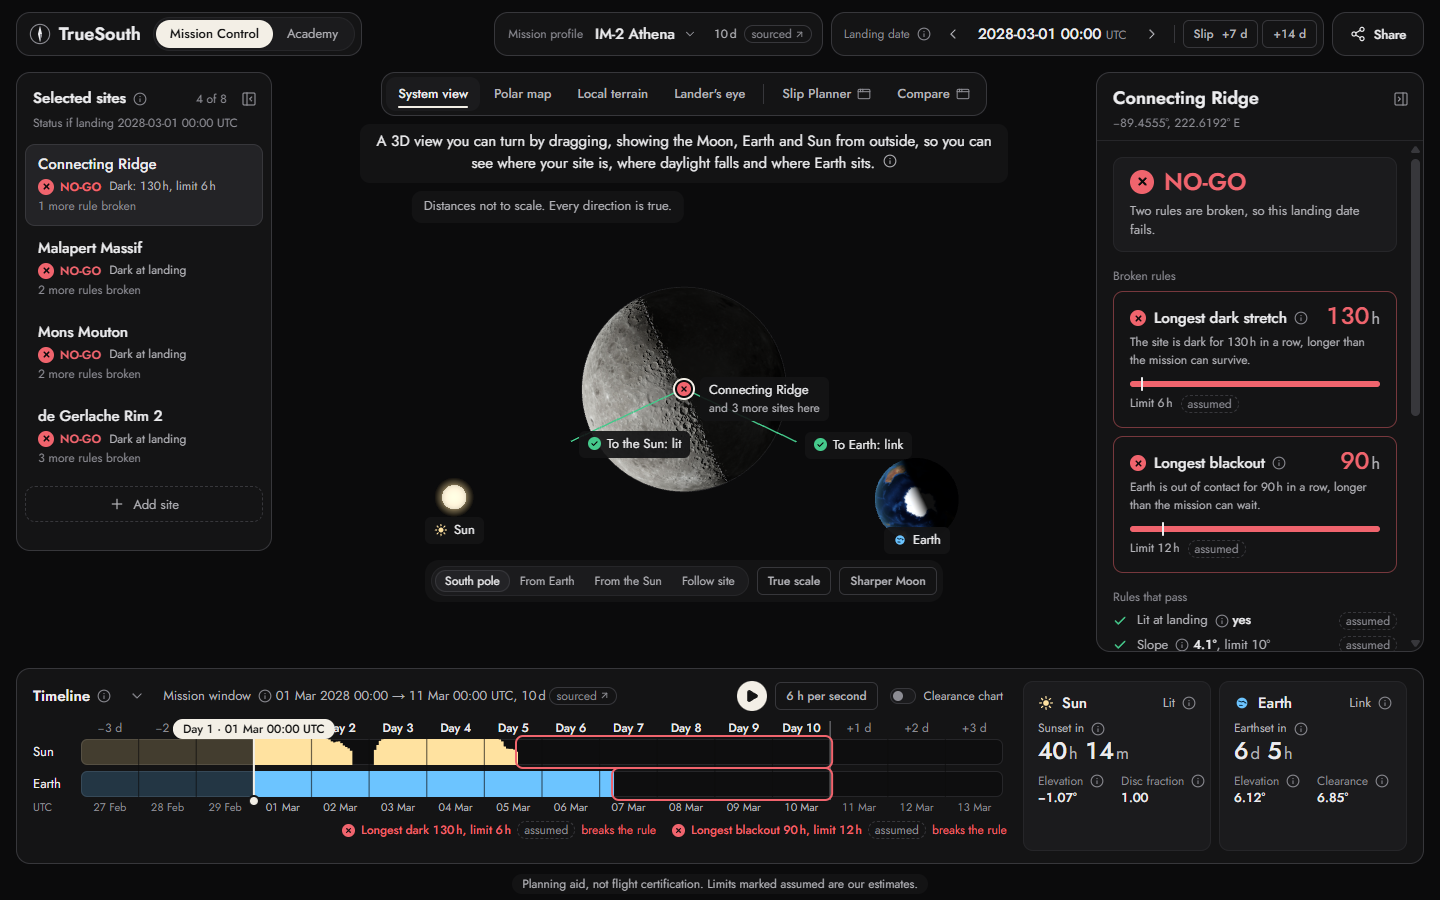
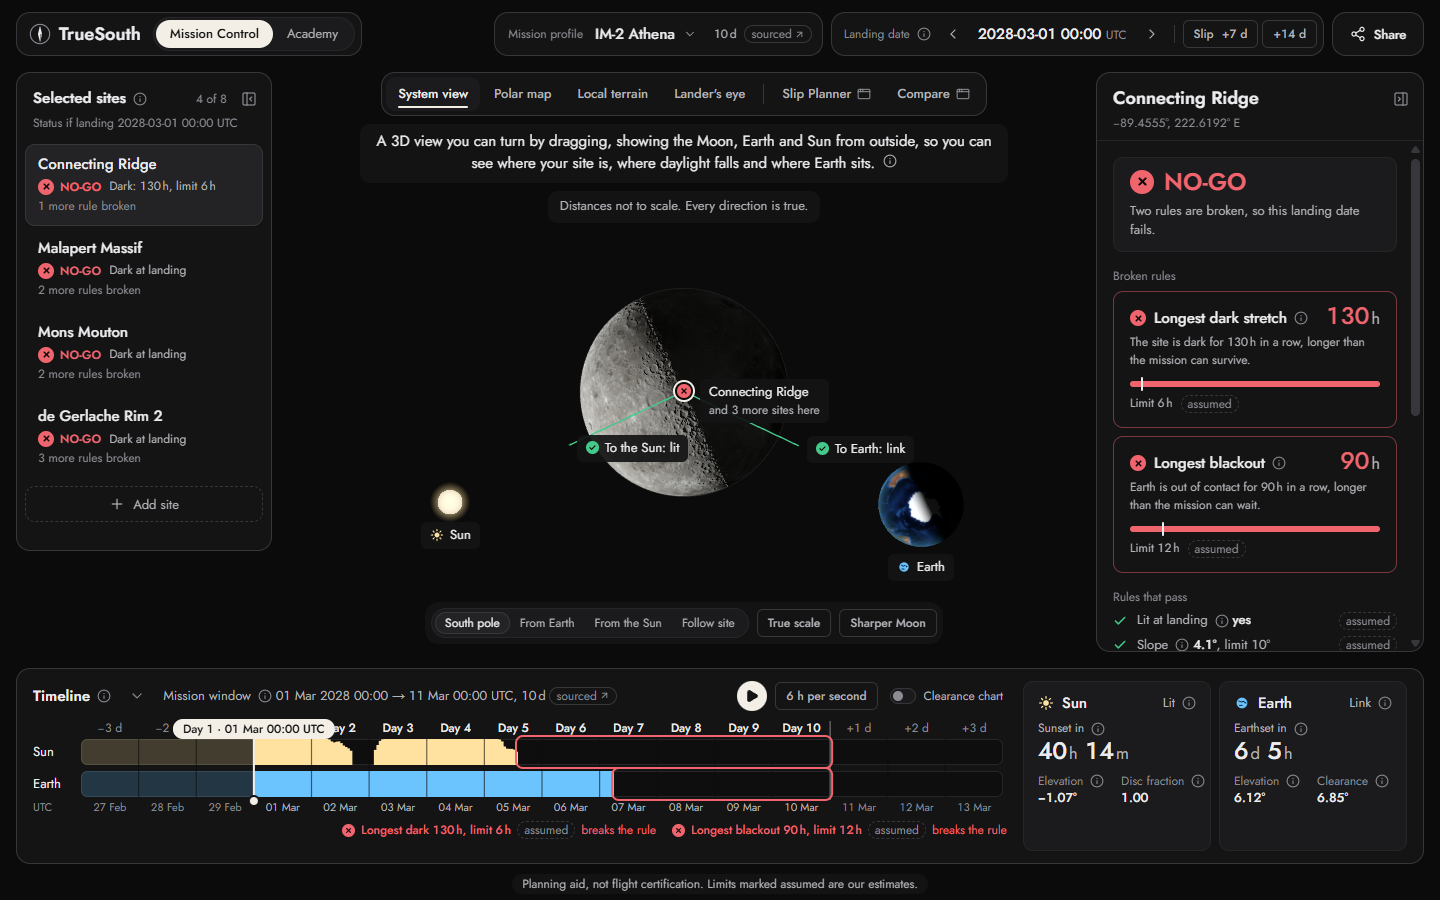
T1 and T2: plate widths, lander palette from theme tokens, DEVLOG entry

Changed region(s): [[0.2812, 0.3422, 0.6562, 0.7156], [0.2812, 0.2178, 0.5625, 0.2489], [0.2812, 0.5289, 0.3438, 0.5911]]

diff --git a/web/src/features/three/scene/overlay.tsx b/web/src/features/three/scene/overlay.tsx
@@ -263,8 +263,10 @@ export function Overlay(props: OverlayProps) {
     };
   }, [bus]);
 
-  const fit = { maxWidth: Math.max(0, freeSpace.width - 16) };
-  const fsStyleTop = { left: freeSpace.x + freeSpace.width / 2, top: freeSpace.y + 8, ...fit };
+  // Plates and controls stay inside the free space; the anchor's limit passes to its child.
+  const room = Math.max(0, freeSpace.width - 16);
+  const fit = { maxWidth: Math.min(room, 760) };
+  const fsStyleTop = { left: freeSpace.x + freeSpace.width / 2, top: freeSpace.y + 8, maxWidth: Math.min(room, 640) };
   const fsStyleFoot = { left: freeSpace.x + freeSpace.width / 2, top: freeSpace.y + freeSpace.height - 8, ...fit };
   const small = tooSmall(freeSpace) || freeSpace.windowOpen;
   const sphere = Boolean(focusedSite?.sphere);

diff --git a/web/src/features/three/scene/scene.css b/web/src/features/three/scene/scene.css
@@ -124,6 +124,10 @@
     transform: translateX(-50%);
   }
 
+  .scene-anchor > * {
+    max-width: inherit;
+  }
+
   .scene-anchor-foot {
     transform: translate(-50%, -100%);
   }
@@ -135,7 +139,6 @@
     justify-content: center;
     gap: var(--s2) var(--s3);
     width: max-content;
-    max-width: min(640px, 100%);
     margin: 0;
     padding: 6px 12px 7px;
     border-radius: var(--r-md);
@@ -162,7 +165,6 @@
     align-items: center;
     gap: var(--s2);
     width: max-content;
-    max-width: min(760px, calc(100vw - 24px));
     padding: 6px;
     overflow-x: auto;
     border-radius: var(--r-lg);

diff --git a/DEVLOG.md b/DEVLOG.md
@@ -599,6 +599,50 @@ Every one of the 65 proposed keys has a definition, source arrays, availability,
 
 ## 3D and Map
 
+#### 2026-11-13 · T1, T2 · The 3D scene behind Mission Control
+- **Who:** Claude Code agent, for the orchestrator
+- **AI use:** Claude Code, claude-opus-5-5, with the impeccable design skill (question
+  round skipped, as briefed) — wrote the scene in `web/src/features/three/scene/` (the
+  Moon, polar cap, Earth and Sun shaders adapted from the approved prototype; the camera
+  rig, flights and controls; the ground built from the patch and apron; the pins, plates
+  and controls; the Pip lander built in code), the placement helpers in
+  `web/src/lib/geo/placement.ts`, vitest tests for both, and the still picture (a render of
+  the scene's own NASA textures; no AI-generated imagery) — checked by the agent with
+  typecheck, the vitest suite, the build, impeccable's detector (no findings) and by eye
+  and by the numbers in a browser with WebGL (NVIDIA RTX 2060, ANGLE D3D11) on the real
+  data and the fixtures at 1440 × 900, 1024 × 768 and 390 × 844; a human has not reviewed
+  it yet
+- **State:** built, not verified
+- **Changed:** `web/src/features/three/scene/` (new), `web/src/lib/geo/placement.ts` and
+  its test (new), `web/src/lib/geo/index.ts`, `web/src/app/scene.ts` (adds
+  `SceneArrival`, the optional `onArrive` and `STILL_PICTURE_URL`), one line in
+  `web/src/app/mission-screen.tsx`, the still picture in `web/src/app/mission/scene-slot.tsx`,
+  `web/public/still/system-view.webp` (new), `docs/design/c2/built-scene-*.png`, this entry
+- **Notes:**
+  - By the numbers at Connecting Ridge (hours 18,960, 18,997 and 19,091): the Sun's
+    elevation from the scene's sub-solar direction agrees with the series' `sun_el` within
+    0.005°. The Earth sight-line and the Earth drawn in Lander's eye use the series'
+    `earth_az` and `earth_el`, so they agree exactly. The System view's Earth sits along the
+    sub-Earth point as science.md §14 says; seen from the site it differs from `earth_el`
+    by 0.25° to 0.27°, which is Earth's parallax between the Moon's centre and its surface.
+  - Shackleton's 20.9 km rim drawn at its IAU position sits on the crater in the cap image;
+    the Connecting Ridge pin lands on the ridge toward de Gerlache.
+  - Frame time at 1440 × 900, pixel ratio 1, RTX 2060: 4.2 ms median and 4.3 ms 95th
+    percentile both orbiting and during a flight (capped by the 240 Hz display). A still
+    scene draws 0 frames in 2 s. A weak laptop is still not measured.
+  - Bundles: the first page's `index` chunk is 700.5 kB (223.6 kB gzipped) with no three.js
+    in it; the lazy `scene-root` chunk is 973.1 kB (261.7 kB gzipped).
+  - Pip is drawn 300 times larger than life in Local terrain, with a "Lander not to scale"
+    plate. As the camera drops to Lander's eye it shrinks away and is hidden, so it never
+    blocks the horizon.
+  - The still picture: `sessionStorage["truesouth.scene.capture"] = "1"` in the dev
+    server, open `/mission?...&land=2028-03-01T00%3A00Z&t=0&view=system` at 1440 × 900, wait
+    for `window.__truesouthStill` (a WebP data URL), decode it into
+    `web/public/still/system-view.webp`. It is 27 kB, over the spec's 0.01 MB guess.
+  - Dev only: `window.__truesouthScene` exposes the world, rig, camera and renderer for
+    checks like the ones above.
+  - three.js r187 prints a `THREE.Clock` deprecation warning from inside React Three Fiber.
+
 #### 2026-11-13 · T0 · Coordinate helpers and a shared Canvas mount
 - **Who:** Cursor agent, for the orchestrator
 - **AI use:** Cursor, grok-4.7 — wrote `web/src/lib/geo/` (tests first), the `SceneCanvas` wrapper and this entry — not checked by a human; the orchestrator marks this verified after `pnpm --dir web test`, typecheck and build
